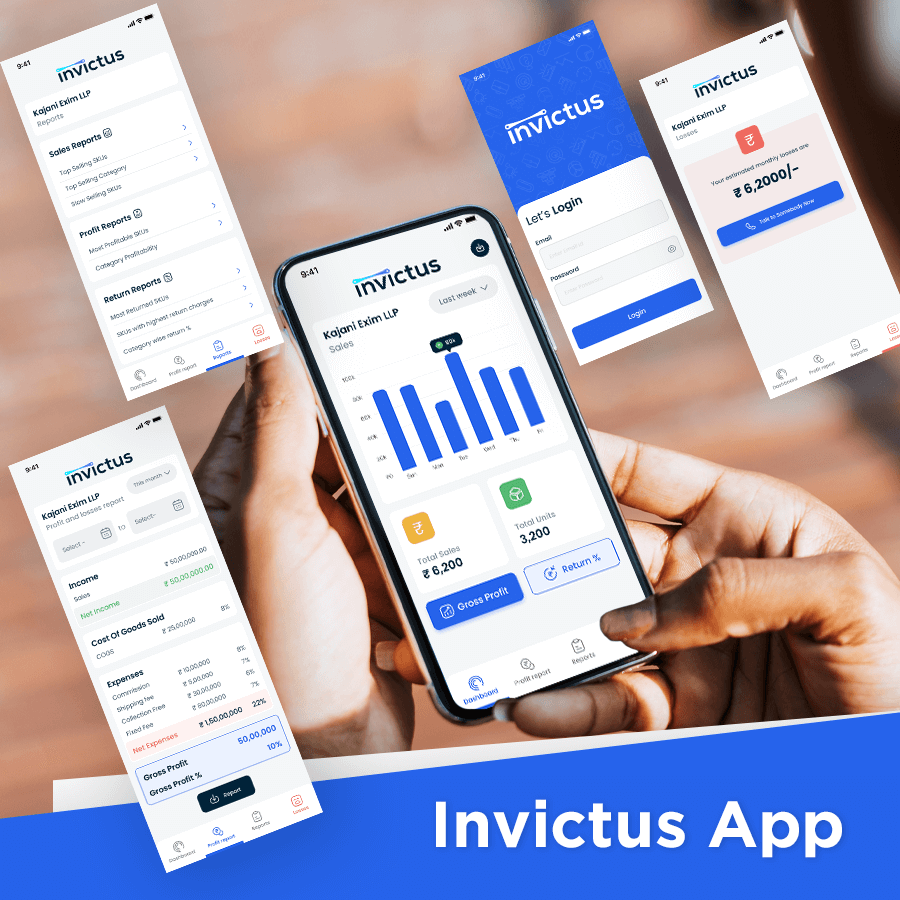
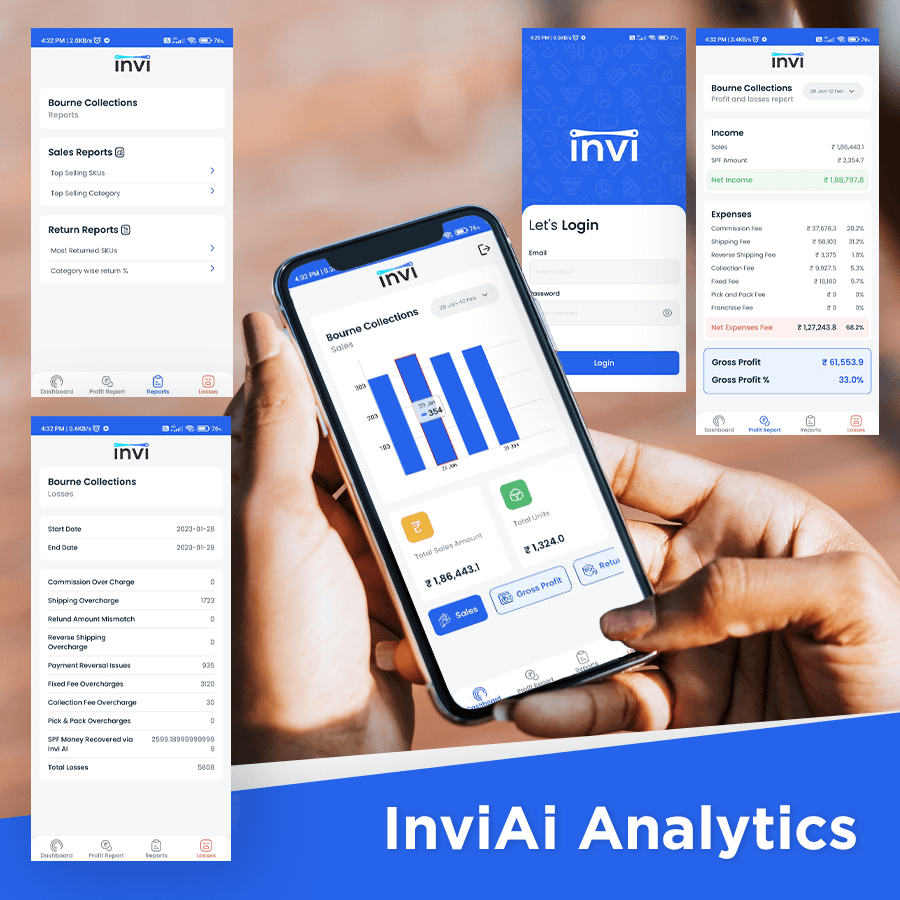
changes

diff --git a/component/data/portfoliodata.jsx b/component/data/portfoliodata.jsx
@@ -124,8 +124,8 @@ export const PortfolioData = [
       },
       {
         id: 12,
-        subheading: 'Invictus LLP, This is expo project.',
-        title: 'Invictus',
+        subheading: 'InviAi Analytics, This is expo project.',
+        title: 'InviAi Analytics',
         image: '/images/portfolio/Invictus.png',
         android_link: 'invictus',
         iphone_link: 'invictus',
